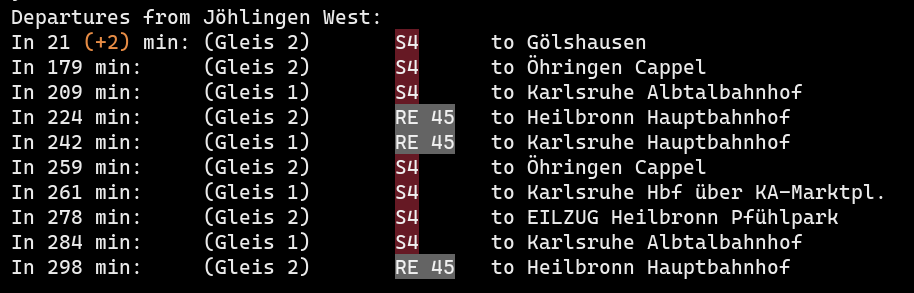
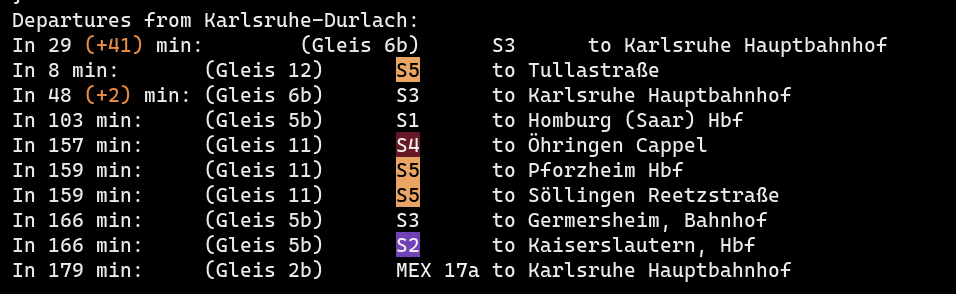
Update station

Changed region(s): [[0.0, 0.0307, 0.9497, 0.9522], [0.0, 0.4608, 0.1532, 0.8601], [0.0, 0.8908, 0.1532, 0.9522]]

diff --git a/src/main.rs b/src/main.rs
@@ -14,6 +14,8 @@ impl fmt::Display for KVVServingLine {
     fn fmt(&self, f: &mut fmt::Formatter<'_>) -> fmt::Result {
         let number = match self.number.as_str() {
             "S4" => "S4".white().on_truecolor(102, 25, 36),
+            "S5" => "S5".black().on_truecolor(234, 165 ,100),
+            "S2" => "S2".white().on_truecolor(113, 66, 183),
             "RE 45" => "RE 45".white().on_truecolor(100, 100, 100),
             x => x.white()
         };
@@ -47,7 +49,8 @@ struct KVVResponse {
 
 #[tokio::main]
 async fn main() -> Result<(), reqwest::Error> {
-    let station_id = 7001530; 
+    //let station_id = 7001530; 
+    let station_id = 7000801;
     let request_url = format!("https://projekte.kvv-efa.de/sl3-alone/XSLT_DM_REQUEST?outputFormat=JSON&coordOutputFormat=WGS84[dd.ddddd]&depType=stopEvents&locationServerActive=1&mode=direct&name_dm={station_id}&type_dm=stop&useOnlyStops=1&useRealtime=1&limit=10");
 
     let response = reqwest::get(&request_url).await?.json::<KVVResponse>().await?;
